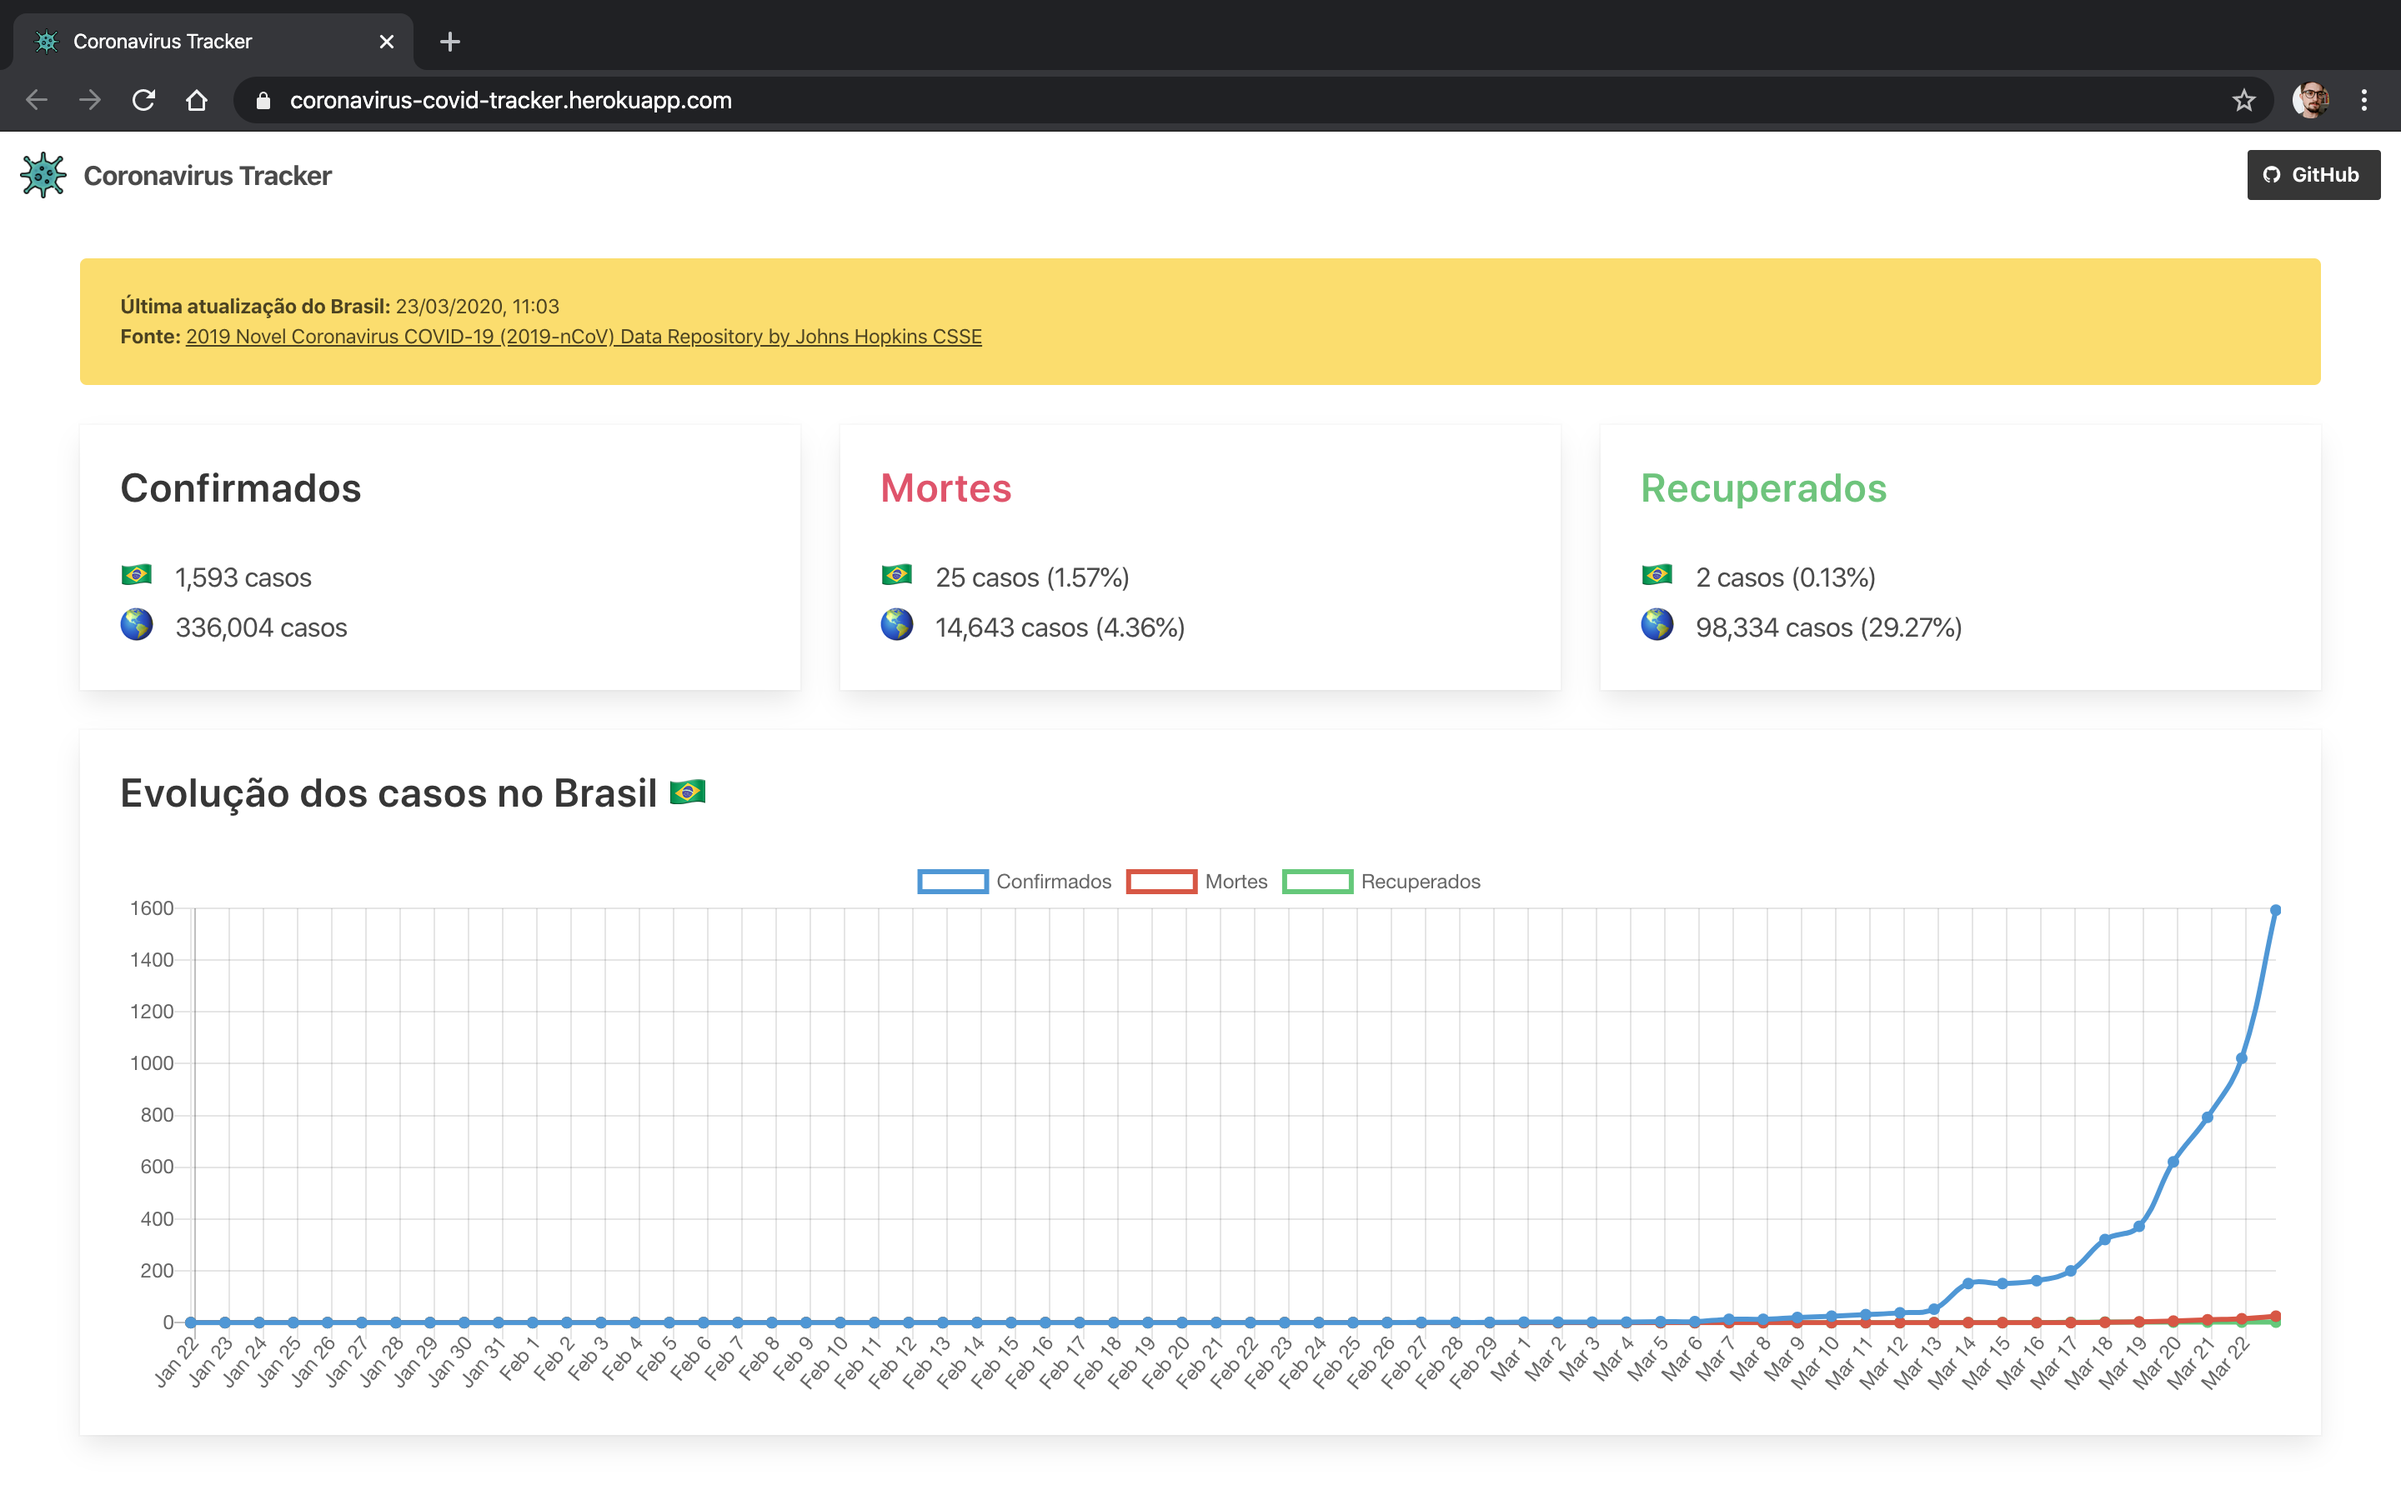
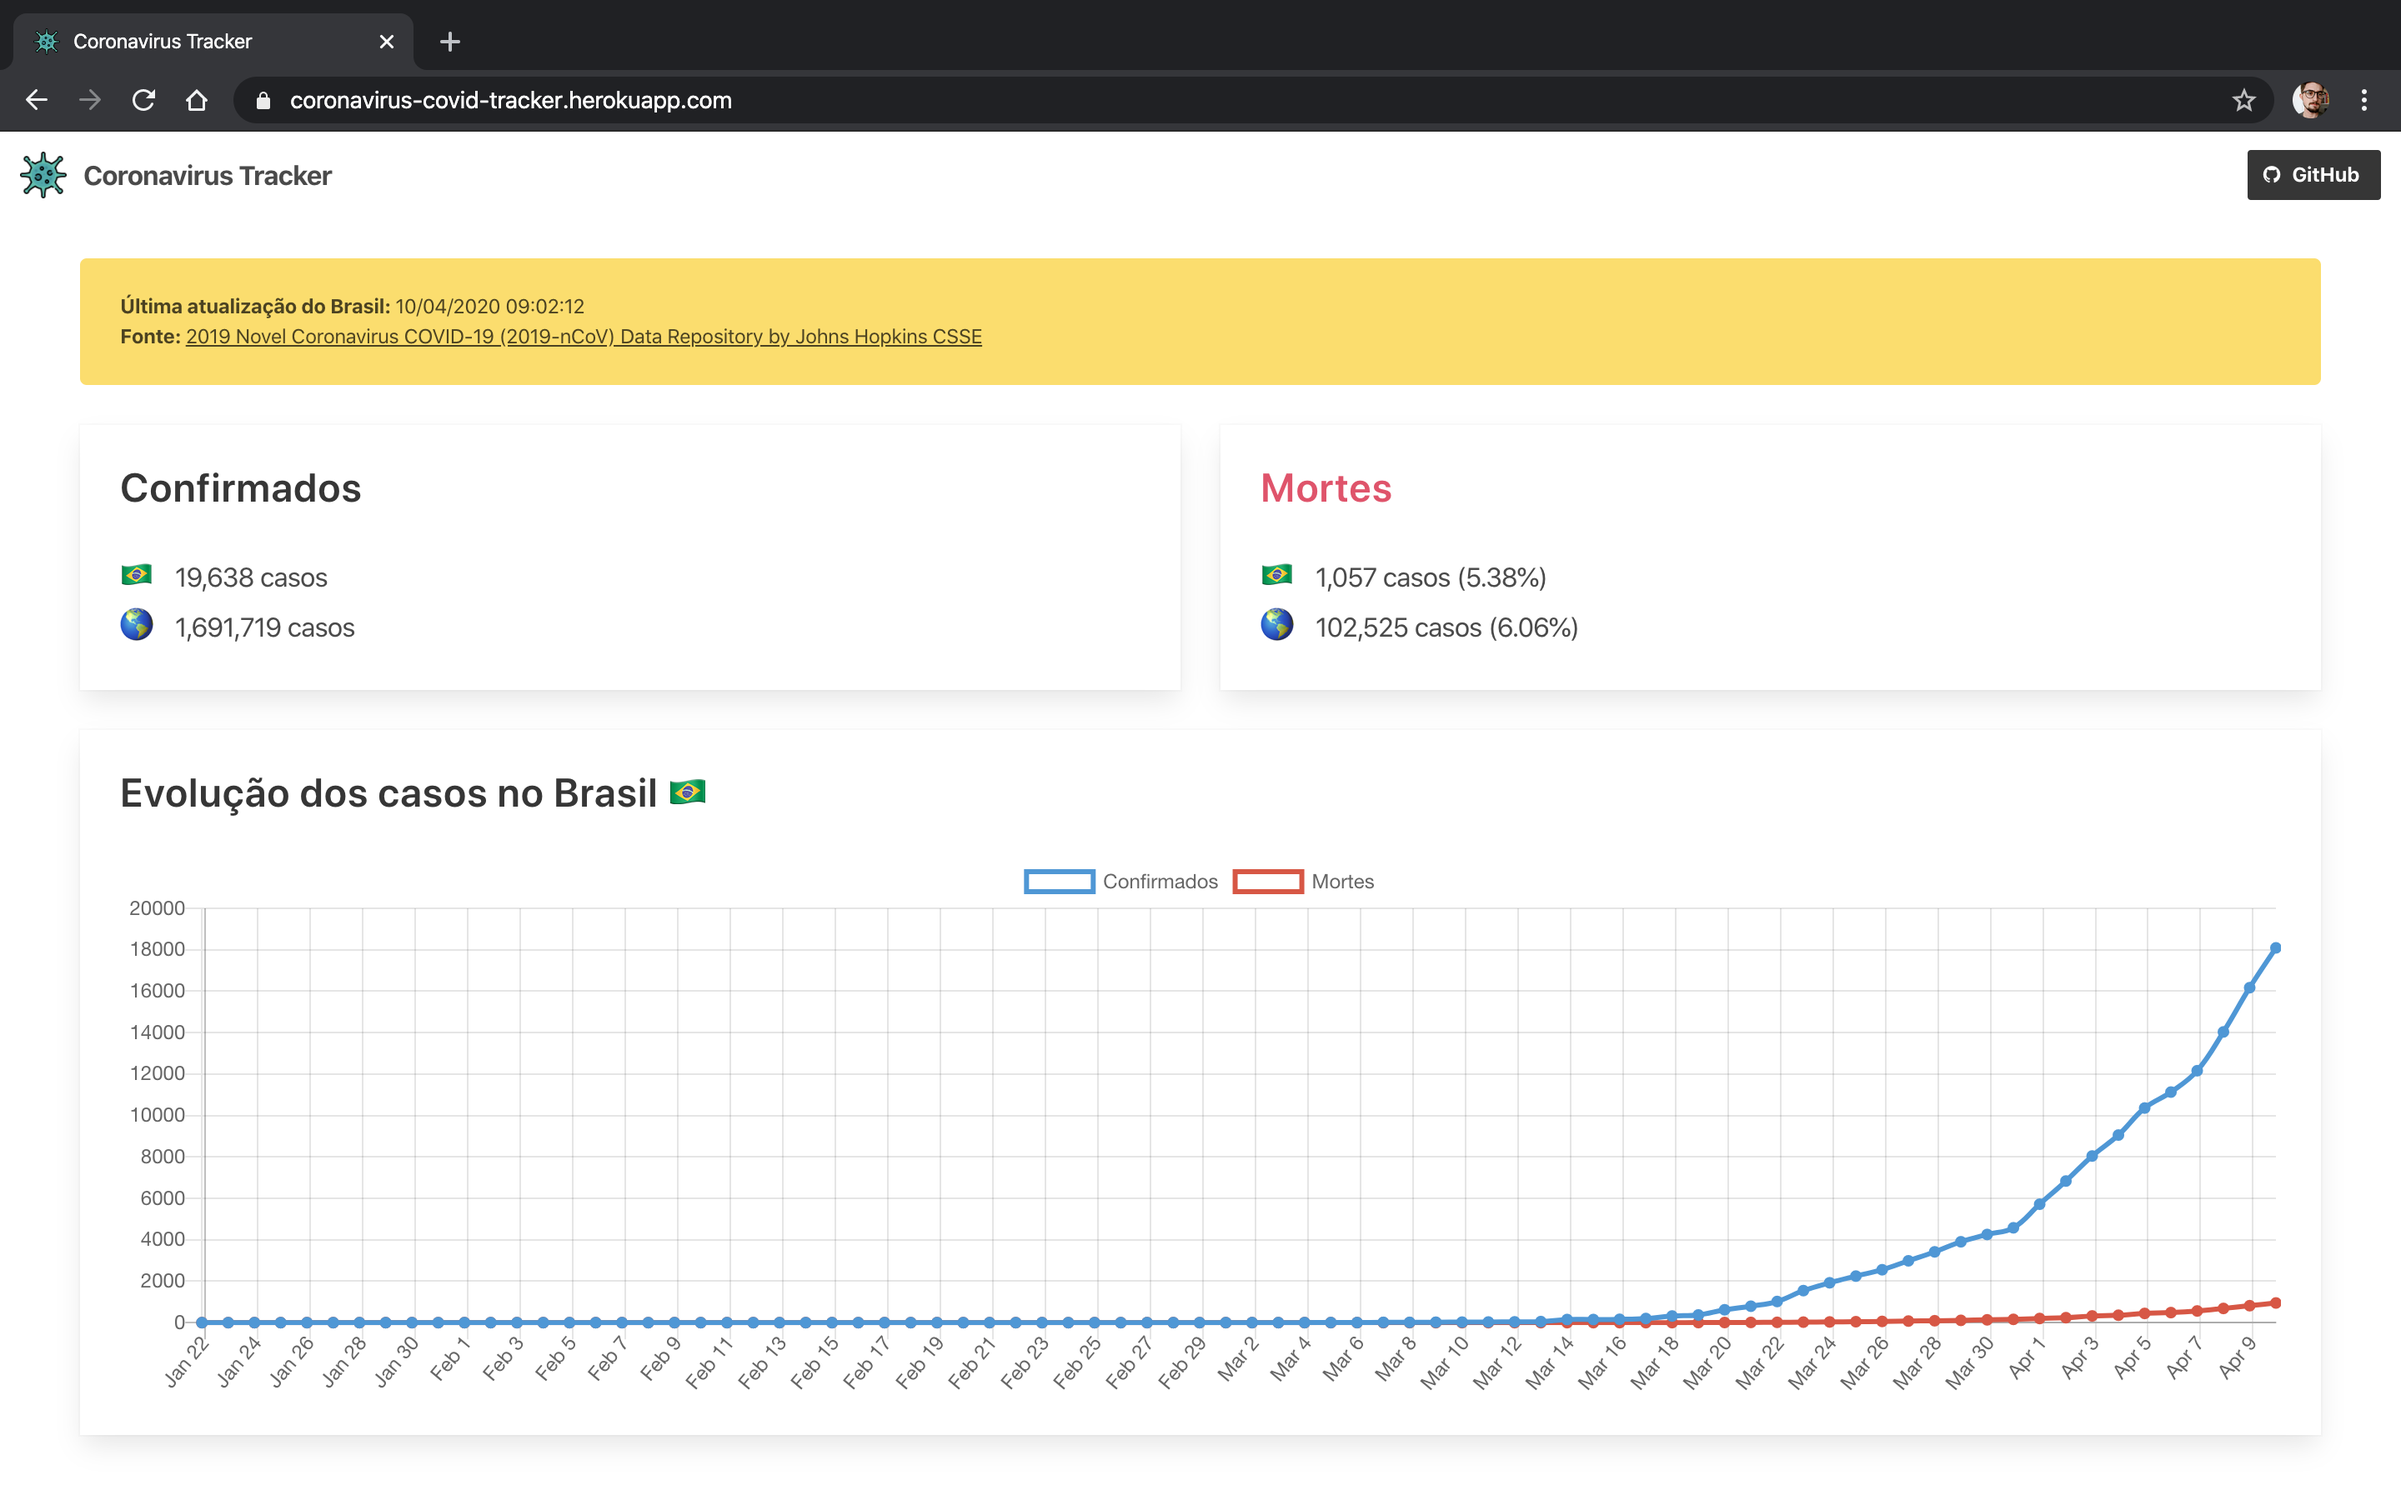
Screenshot e README.md atualizados devido a fonte dos dados não suportar mais os dados de pacientes recuperados

diff --git a/README.md b/README.md
@@ -1,6 +1,6 @@
 # Coronavirus Tracker
 
-Este aplicativo monitora o número de casos confirmados, mortes e pacientes recuperados do coronavírus (COVID-19) no mundo e especialmente no Brasil.
+Este aplicativo monitora o número de casos confirmados e mortes por coronavírus (COVID-19) no mundo e especificamente no Brasil.
 
 **Versão online:** https://coronavirus-covid-tracker.herokuapp.com/
 
